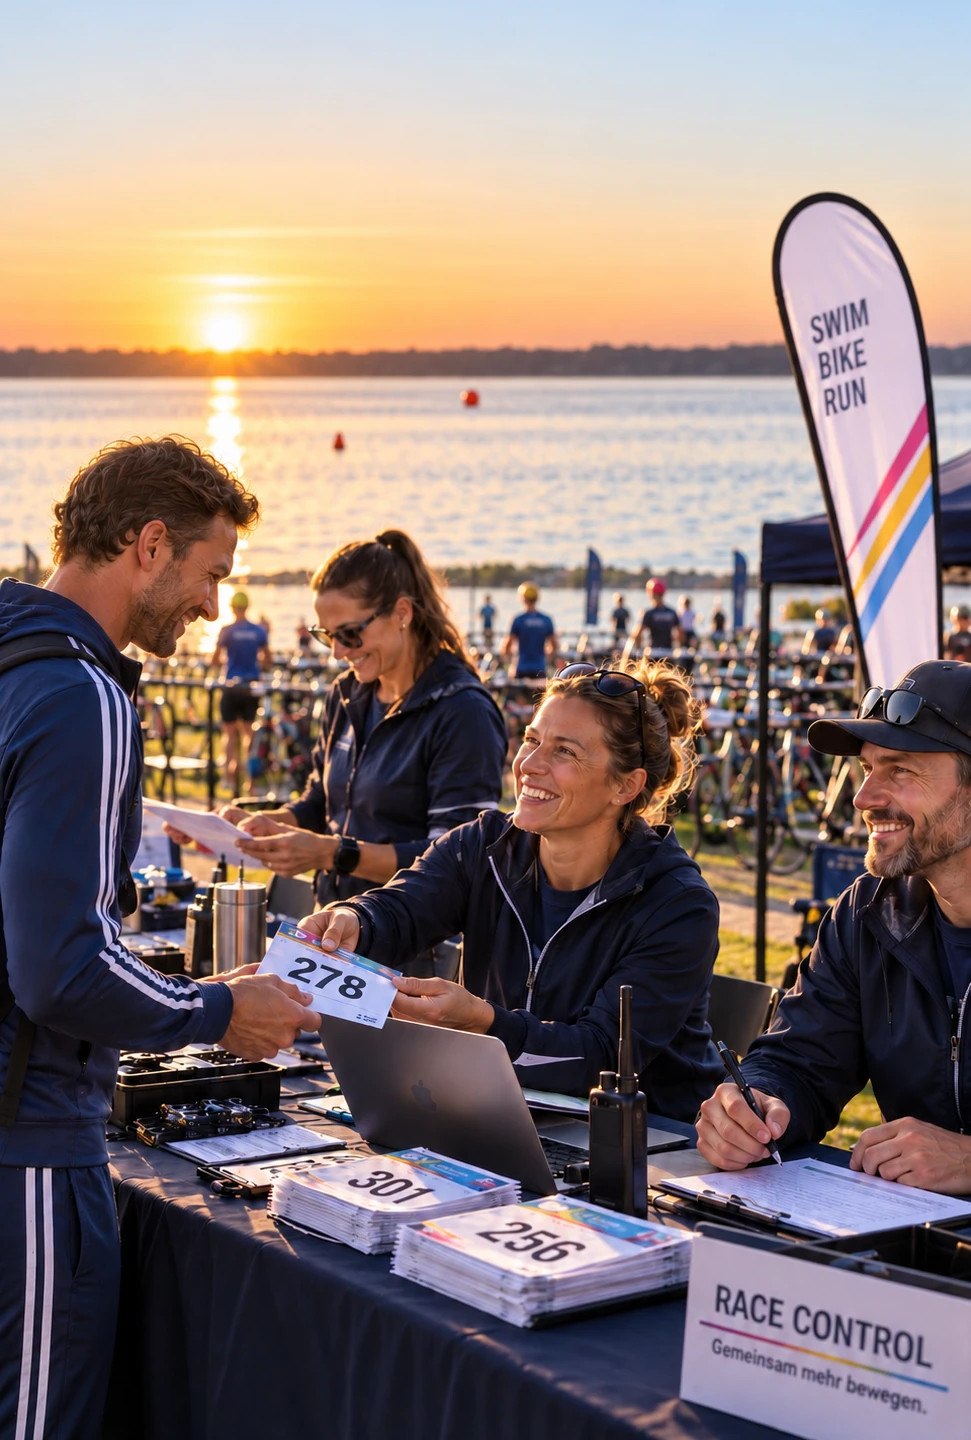
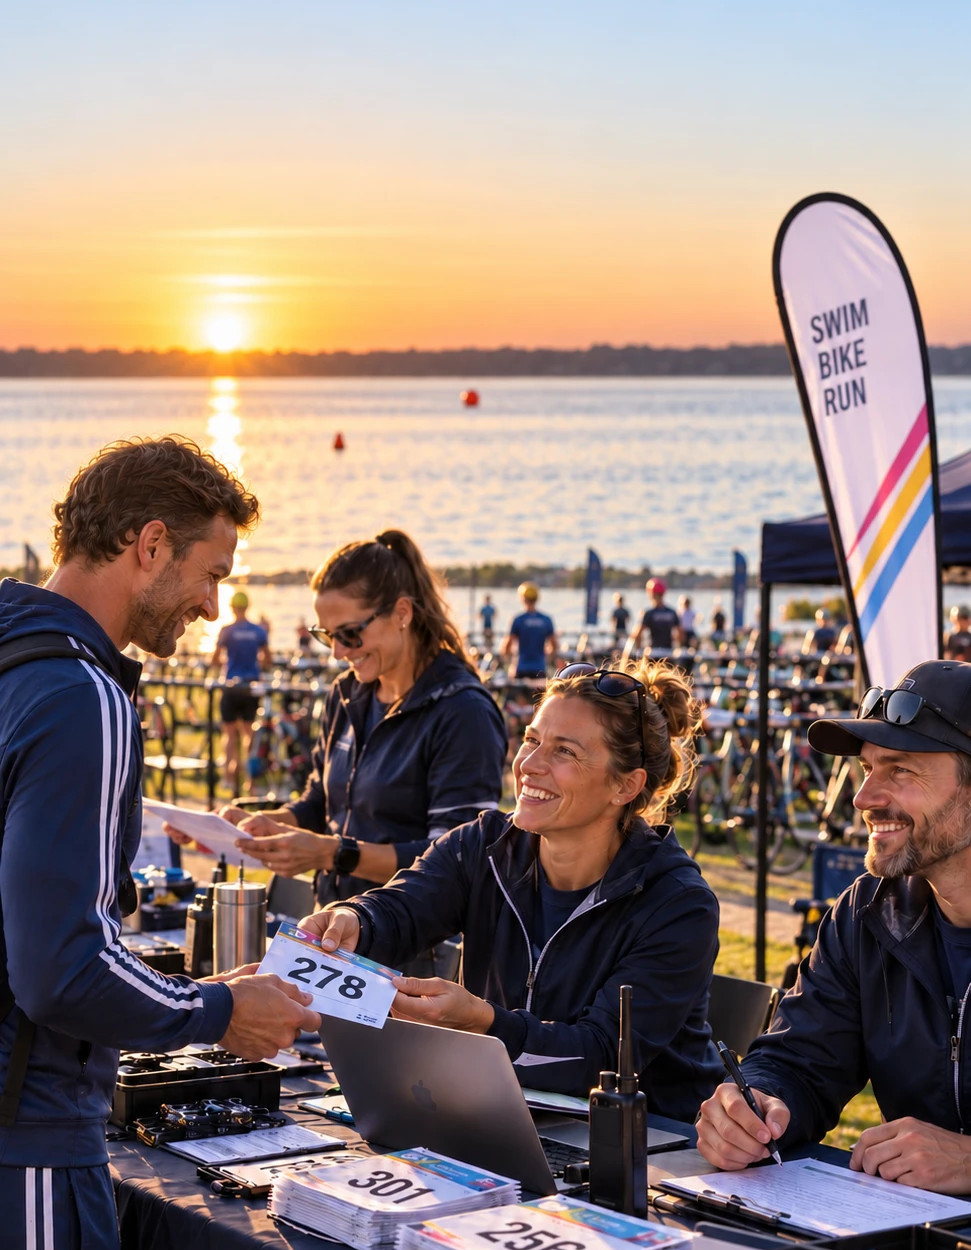
Geschäftsstelle-Hero: Claim einzeilig, Foto unten weiter gekürzt
Auf Screenshot-Vorgabe: "Alles, was den Verein organisiert." umbricht
jetzt nicht mehr auf zwei Zeilen (white-space:nowrap statt der
geerbten max-width:220px, analog wie die Ueberschrift bereits ueber
die Content-Box hinausragen darf). Foto zusaetzlich unten gekuerzt
(971x1440 -> 971x1250), wodurch das "RACE CONTROL"-Schild auf dem
Tisch nicht mehr im Bildausschnitt ist (inhaltlich redundant zum
eigenen Seitentitel "Geschäftsstelle"/Kicker "Race Control"). Beides
macht die Seite kompakter.

Claude-Session: https://claude.ai/code/session_01Nknp68H4QGcrGPWcEcMSp8

diff --git a/htdocs/bereich/vorstand/index.php b/htdocs/bereich/vorstand/index.php
@@ -29,10 +29,13 @@ $zurueck = '../home.php';
          damit alle anderen Seiten unveraendert bleiben. Menue-Funktion
          1:1 aus kopf.php uebernommen. Foto-Hero analog zu den anderen
          umgestellten Seiten. Siehe Master-Prompt in CLAUDE.md. -->
-    <!-- Eigenes, kuerzeres Seitenverhaeltnis nur fuer dieses Foto (971x1500
-         statt 971x1620) - die anderen Seiten mit .home-hero behalten das
-         Standard-Seitenverhaeltnis aus style.css unveraendert. -->
-    <div class="home-hero" style="background-image:url('../../assets/img/brand/geschaeftsstelle-hero.jpg?v=<?= cacheV('assets/img/brand/geschaeftsstelle-hero.jpg') ?>'); aspect-ratio: 971 / 1440;">
+    <!-- Eigenes, kuerzeres Seitenverhaeltnis nur fuer dieses Foto (971x1250
+         statt 971x1620) - oben wegen hoher Kopfposition nur moderat, unten
+         zusaetzlich auf Screenshot-Vorgabe gekuerzt (das "RACE CONTROL"-
+         Schild auf dem Tisch faellt weg, da inhaltlich redundant zum
+         eigenen Seitentitel). Die anderen Seiten mit .home-hero behalten
+         das Standard-Seitenverhaeltnis aus style.css unveraendert. -->
+    <div class="home-hero" style="background-image:url('../../assets/img/brand/geschaeftsstelle-hero.jpg?v=<?= cacheV('assets/img/brand/geschaeftsstelle-hero.jpg') ?>'); aspect-ratio: 971 / 1250;">
         <div class="home-hero__topbar">
             <a href="../home.php" class="home-hero__brand" aria-label="Startseite">
                 <img class="home-hero__logo" src="../../assets/img/logo.jpg?v=<?= cacheV('assets/img/logo.jpg') ?>" alt="Logo <?= e(VEREIN_NAME) ?>">
@@ -59,7 +62,7 @@ $zurueck = '../home.php';
         <div class="home-hero__content">
             <span class="kicker">Race Control</span>
             <h2>Geschäftsstelle</h2>
-            <p class="home-hero__claim">Alles, was den Verein organisiert.</p>
+            <p class="home-hero__claim" style="max-width:none; white-space:nowrap;">Alles, was den Verein organisiert.</p>
             <div class="home-hero__accent">
                 <span style="background:#5b9bd5;"></span>
                 <span style="background:#ff3399;"></span>
